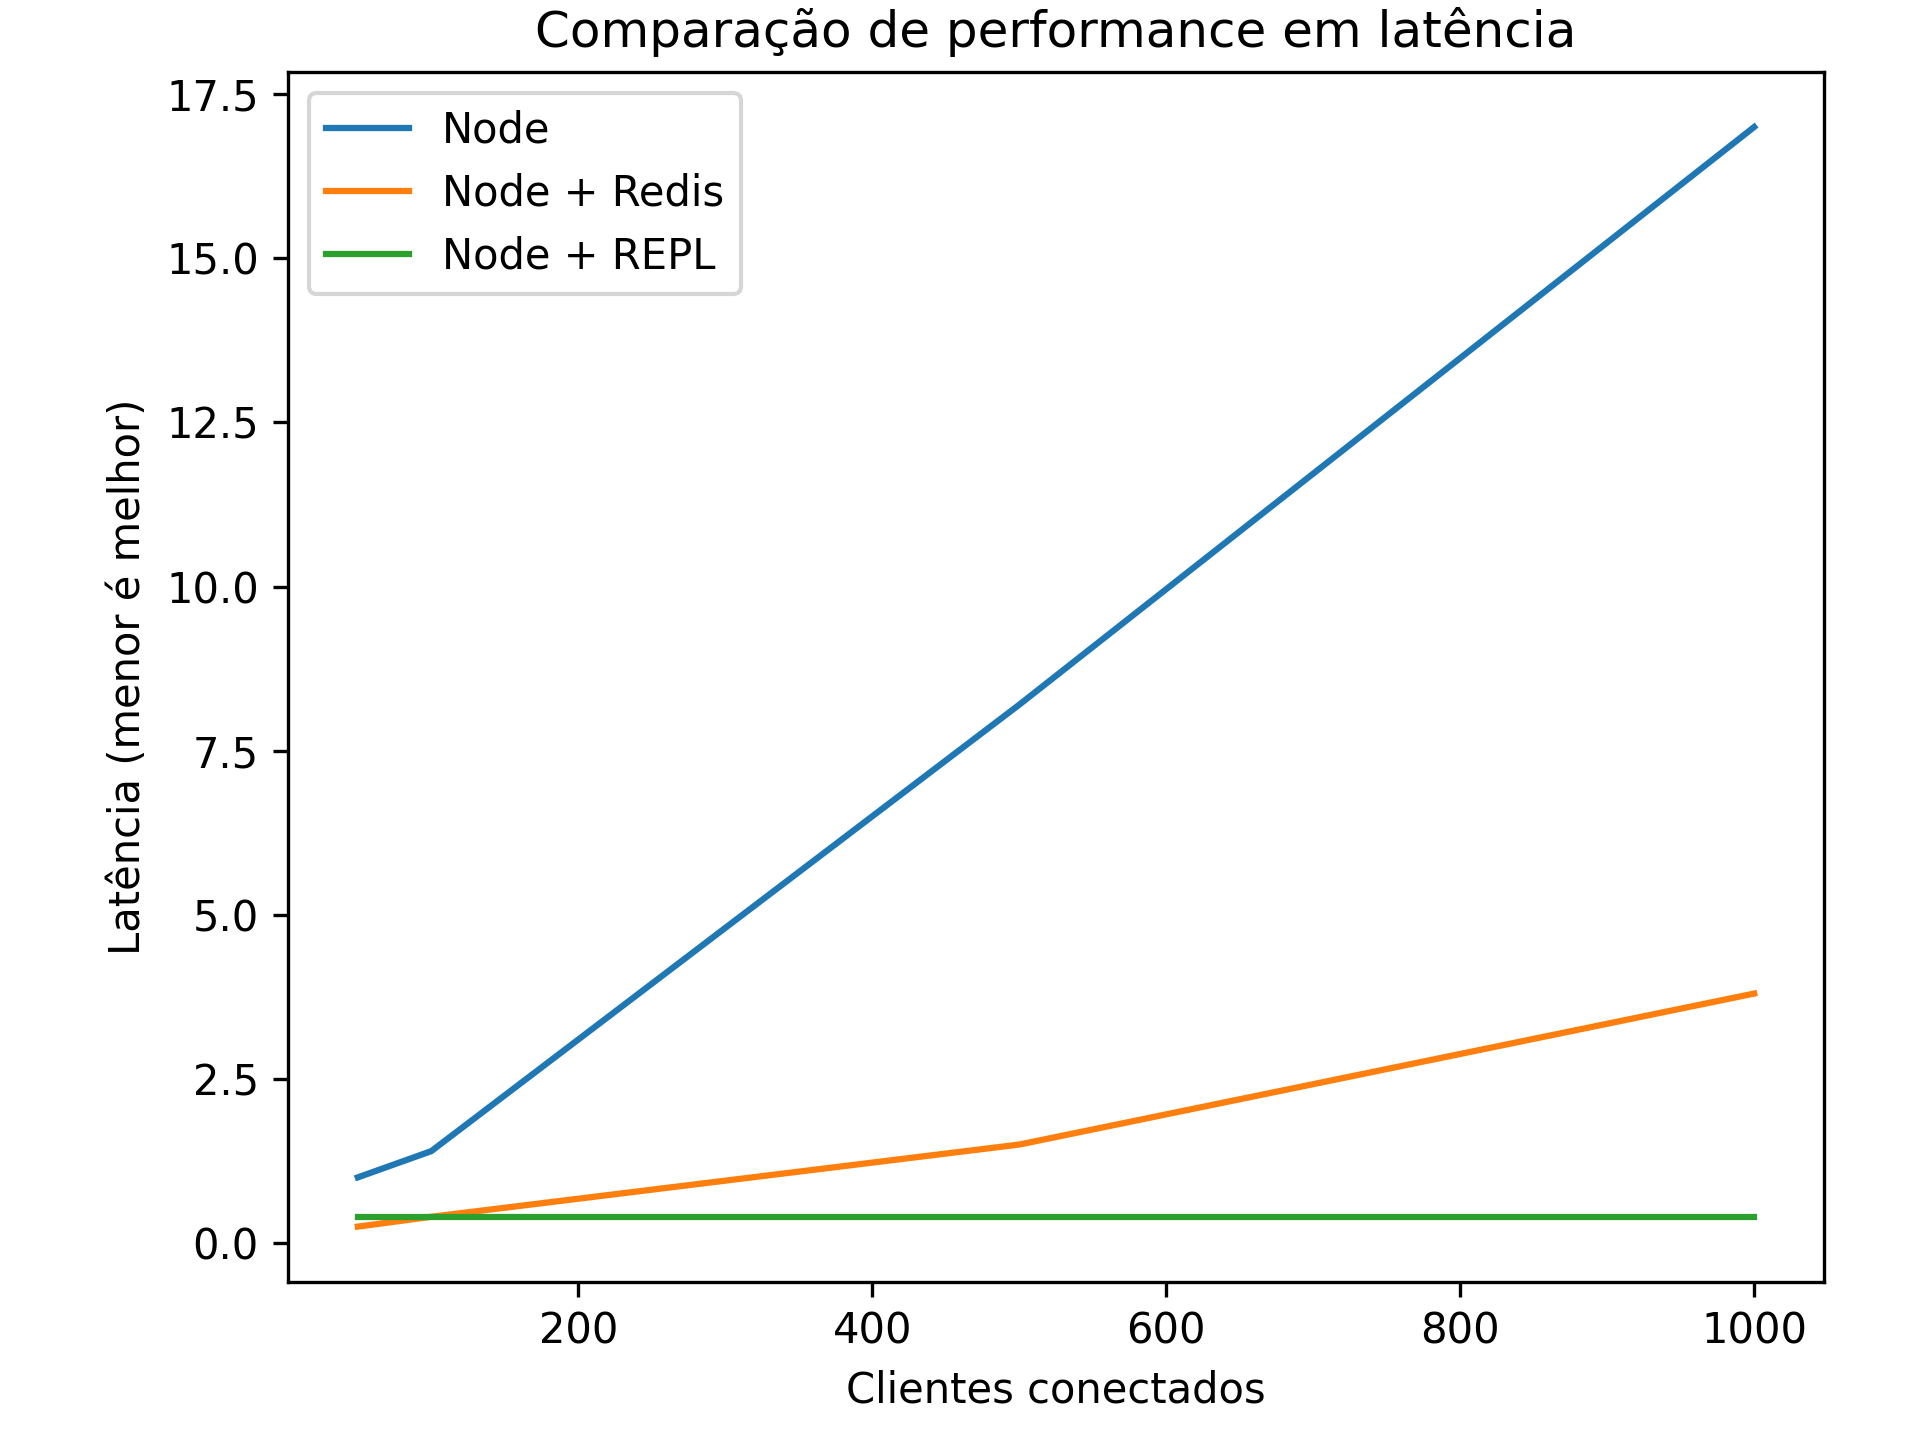
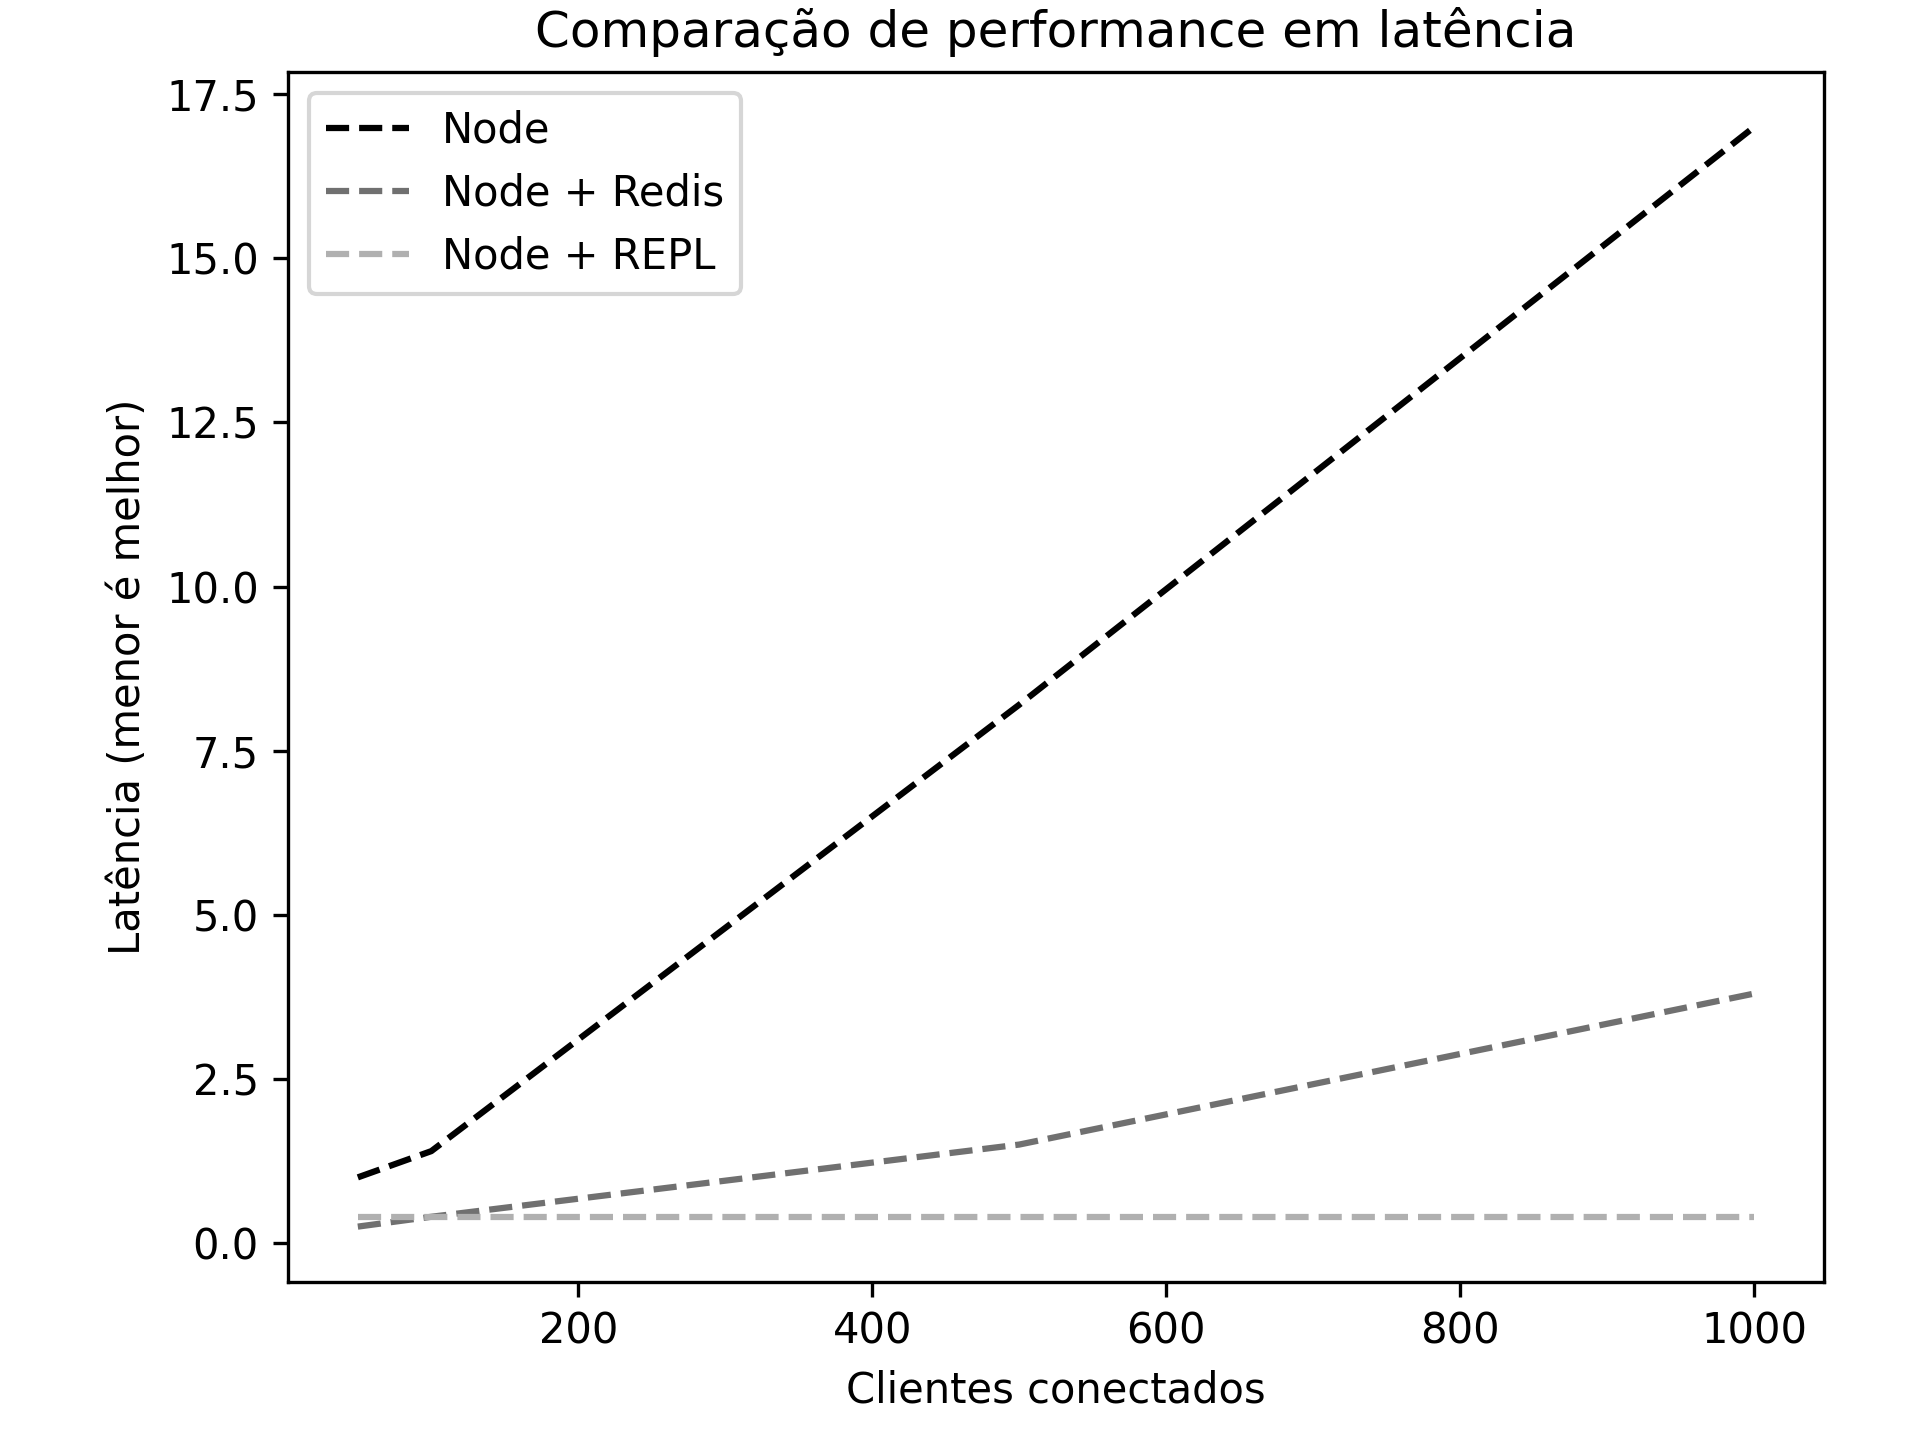
feat: update charts and code

diff --git a/charts.py b/charts.py
@@ -10,9 +10,9 @@ class LoadTest:
         python_rps = [2044, 1618, 700, 383, 192]
         repl_rps = [106598, 56927, 9534, 4666, 2514]
 
-        plt.plot(clients, node_rps, label="NodeJS")
-        plt.plot(clients, python_rps, label="Python")
-        plt.plot(clients, repl_rps, label="REPL")
+        plt.plot(clients, node_rps, label="NodeJS", color="#000000", linestyle="--")
+        plt.plot(clients, python_rps, label="Python", color="#707070", linestyle="--")
+        plt.plot(clients, repl_rps, label="REPL", color="#B0B0B0", linestyle="--")
 
         plt.xlabel("Clientes conectados")
         plt.ylabel("Requisições por segundo (maior é melhor)")
@@ -29,9 +29,11 @@ class LoadTest:
         python_latency = [1.8, 2.5, 8.7, 19.3, 31]
         repl_latency = [0.1, 0.1, 0.15, 0.3, 0.6]
 
-        plt.plot(clients, node_latency, label="NodeJS")
-        plt.plot(clients, python_latency, label="Python")
-        plt.plot(clients, repl_latency, label="REPL")
+        plt.plot(clients, node_latency, label="NodeJS", color="#000000", linestyle="--")
+        plt.plot(
+            clients, python_latency, label="Python", color="#707070", linestyle="--"
+        )
+        plt.plot(clients, repl_latency, label="REPL", color="#B0B0B0", linestyle="--")
 
         plt.xlabel("Clientes conectados")
         plt.ylabel("Latência (menor é melhor)")
@@ -48,9 +50,9 @@ class LoadTest:
         python_rate = [550, 400, 113, 52, 24]
         repl_rate = [10_000, 10_000, 6_666, 3_333, 1_666]
 
-        plt.plot(clients, node_rate, label="NodeJS")
-        plt.plot(clients, python_rate, label="Python")
-        plt.plot(clients, repl_rate, label="REPL")
+        plt.plot(clients, node_rate, label="NodeJS", color="#000000", linestyle="--")
+        plt.plot(clients, python_rate, label="Python", color="#707070", linestyle="--")
+        plt.plot(clients, repl_rate, label="REPL", color="#B0B0B0", linestyle="--")
 
         plt.xlabel("Clientes conectados")
         plt.ylabel("Mensagens por segundo (maior é melhor)")
@@ -78,9 +80,9 @@ class IntegrationTest:
         redis = [3719, 2382, 646, 279]
         repl = [2379, 2569, 2471, 2143]
 
-        plt.plot(clients, standalone, label="Node")
-        plt.plot(clients, redis, label="Node + Redis")
-        plt.plot(clients, repl, label="Node + REPL")
+        plt.plot(clients, standalone, label="Node", color="#000000", linestyle="--")
+        plt.plot(clients, redis, label="Node + Redis", color="#707070", linestyle="--")
+        plt.plot(clients, repl, label="Node + REPL", color="#B0B0B0", linestyle="--")
 
         plt.xlabel("Clientes conectados")
         plt.ylabel("Requisições por segundo (maior é melhor)")
@@ -98,9 +100,9 @@ class IntegrationTest:
         redis = [0.25, 0.4, 1.5, 3.8]
         repl = [0.4, 0.4, 0.4, 0.4]
 
-        plt.plot(clients, standalone, label="Node")
-        plt.plot(clients, redis, label="Node + Redis")
-        plt.plot(clients, repl, label="Node + REPL")
+        plt.plot(clients, standalone, label="Node", color="#000000", linestyle="--")
+        plt.plot(clients, redis, label="Node + Redis", color="#707070", linestyle="--")
+        plt.plot(clients, repl, label="Node + REPL", color="#B0B0B0", linestyle="--")
 
         plt.xlabel("Clientes conectados")
         plt.ylabel("Latência (menor é melhor)")
@@ -118,9 +120,9 @@ class IntegrationTest:
         redis = [3900, 2500, 664, 263]
         repl = [2500, 2500, 2500, 2500]
 
-        plt.plot(clients, standalone, label="Node")
-        plt.plot(clients, redis, label="Node + Redis")
-        plt.plot(clients, repl, label="Node + REPL")
+        plt.plot(clients, standalone, label="Node", color="#000000", linestyle="--")
+        plt.plot(clients, redis, label="Node + Redis", color="#707070", linestyle="--")
+        plt.plot(clients, repl, label="Node + REPL", color="#B0B0B0", linestyle="--")
 
         plt.xlabel("Clientes conectados")
         plt.ylabel("Mensagens por segundo (maior é melhor)")
